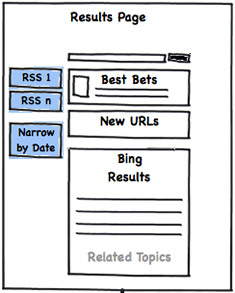
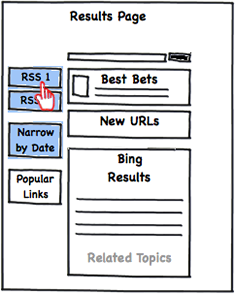
[Completes #19941063] Update Affiliate Center Text
- Move Search API under Account Settings and remove new button
- Remove new button from Popular Links
- Remove TM from URLs link on Best Bets: Text index page
- Show most recent Best Bets: Text and Best Bets: Graphics on best bets
  index page
- Update RSS images

Changed region(s): [[0.0, 0.0, 1.0, 1.0], [0.6255, 0.8601, 0.7447, 0.8908], [0.5064, 0.9829, 0.5362, 1.0]]

diff --git a/app/stylesheets/new_main.sass b/app/stylesheets/new_main.sass
@@ -1332,6 +1332,7 @@ h3.api-item
       padding: 0 0 0 1em
 
 .featured-collection-list, .boosted-content-list, .rss-feed-list
+  clear: both
   table
     border: 1px solid #BDBDBD
     table-layout: fixed
@@ -1595,6 +1596,9 @@ h3.api-item
       font:
         size: 20px
         weight: bold
+
+.best-bets
+  @include clearfix
 
 .analytics
   form

diff --git a/spec/controllers/affiliates/home_controller_spec.rb b/spec/controllers/affiliates/home_controller_spec.rb
@@ -711,13 +711,32 @@ describe Affiliates::HomeController do
     end
 
     context "when logged in as the affiliate manager" do
+      let(:affiliate) { affiliates(:basic_affiliate) }
+      let(:current_user) { users(:affiliate_manager) }
+      let(:boosted_contents) { mock('Boosted Contents') }
+      let(:recent_boosted_contents) { mock('recent Boosted Contents') }
+      let(:featured_collections) { mock('Featured Collections') }
+      let(:recent_featured_collections) { mock('recent Featured Collections') }
+
       before do
-        UserSession.create(users(:affiliate_manager))
+        UserSession.create(current_user)
+        User.should_receive(:find_by_id).and_return(current_user)
+
+        current_user.stub_chain(:affiliates, :find).and_return(affiliate)
+
+        affiliate.should_receive(:boosted_contents).and_return(boosted_contents)
+        boosted_contents.should_receive(:recent).and_return(recent_boosted_contents)
+
+        affiliate.should_receive(:featured_collections).and_return(featured_collections)
+        featured_collections.should_receive(:recent).and_return(recent_featured_collections)
+
         get :best_bets, :id => affiliates(:basic_affiliate).id
       end
 
       it { should assign_to :title }
+      it { should assign_to(:boosted_contents).with(recent_boosted_contents) }
+      it { should assign_to(:featured_collections).with(recent_featured_collections) }
+      it { should respond_with(:success) }
     end
   end
-
 end

diff --git a/spec/controllers/affiliates/featured_collections_controller_spec.rb b/spec/controllers/affiliates/featured_collections_controller_spec.rb
@@ -41,7 +41,7 @@ describe Affiliates::FeaturedCollectionsController do
 
         current_user.stub_chain(:affiliates, :find).and_return(affiliate)
         affiliate.should_receive(:featured_collections).and_return(featured_collections)
-        featured_collections.should_receive(:paginate).with(:all, :per_page => FeaturedCollection.per_page, :page => nil).and_return(featured_collections_with_paginate)
+        featured_collections.should_receive(:paginate).with(:all, :per_page => FeaturedCollection.per_page, :page => nil, :order => 'updated_at DESC, id DESC').and_return(featured_collections_with_paginate)
 
         get :index, :affiliate_id => affiliate.id
       end

diff --git a/spec/controllers/admin/featured_collections_controller_spec.rb b/spec/controllers/admin/featured_collections_controller_spec.rb
@@ -23,7 +23,7 @@ describe Admin::FeaturedCollectionsController do
       before do
         UserSession.create(current_user)
         FeaturedCollection.should_receive(:where).with(:affiliate_id => nil).and_return(featured_collections)
-        featured_collections.should_receive(:paginate).with(:per_page => FeaturedCollection.per_page, :page => nil).and_return(featured_collections_with_paginate)
+        featured_collections.should_receive(:paginate).with(:per_page => FeaturedCollection.per_page, :page => nil, :order => 'updated_at DESC, id DESC').and_return(featured_collections_with_paginate)
 
         get :index
       end

diff --git a/spec/models/featured_collection_spec.rb b/spec/models/featured_collection_spec.rb
@@ -35,6 +35,12 @@ describe FeaturedCollection do
   it { should have_many(:featured_collection_keywords).dependent(:destroy) }
   it { should have_many(:featured_collection_links).dependent(:destroy) }
 
+  describe ".recent" do
+    it "should include a scope called 'recent'" do
+      FeaturedCollection.scopes.include?(:recent).should be_true
+    end
+  end
+
   describe "title URL should have http(s):// prefix" do
     context "when the title URL does not start with http(s):// prefix" do
       title_url = 'searchblog.usa.gov/post/9866782725/did-you-mean-roes-or-rose'

diff --git a/app/models/featured_collection.rb b/app/models/featured_collection.rb
@@ -33,6 +33,7 @@ class FeaturedCollection < ActiveRecord::Base
   before_save :ensure_http_prefix_on_title_url
   before_post_process :check_image_validation
   before_update :clear_existing_image
+  scope :recent, { :order => 'updated_at DESC, id DESC', :limit => 5 }
 
   accepts_nested_attributes_for :featured_collection_keywords, :allow_destroy => true, :reject_if => proc { |a| a['value'].blank? }
   accepts_nested_attributes_for :featured_collection_links, :allow_destroy => true, :reject_if => proc { |a| a['title'].blank? and a['url'].blank? }

diff --git a/app/controllers/admin/featured_collections_controller.rb b/app/controllers/admin/featured_collections_controller.rb
@@ -4,7 +4,7 @@ class Admin::FeaturedCollectionsController < Admin::AffiliatesController
 
   def index
     @page_title = 'Search.USA.gov Featured Collections'
-    @featured_collections = FeaturedCollection.where(:affiliate_id => nil).paginate(:per_page => FeaturedCollection.per_page, :page => params[:page])
+    @featured_collections = FeaturedCollection.where(:affiliate_id => nil).paginate(:per_page => FeaturedCollection.per_page, :page => params[:page], :order => 'updated_at DESC, id DESC')
   end
 
   def new

diff --git a/app/controllers/affiliates/featured_collections_controller.rb b/app/controllers/affiliates/featured_collections_controller.rb
@@ -5,7 +5,8 @@ class Affiliates::FeaturedCollectionsController < Affiliates::AffiliatesControll
 
   def index
     @title = 'Best Bets: Graphics - '
-    @featured_collections = @affiliate.featured_collections.paginate(:all, :per_page => FeaturedCollection.per_page, :page => params[:page])
+    @featured_collections = @affiliate.featured_collections.paginate(:all, :per_page => FeaturedCollection.per_page, :page => params[:page], :order => 'updated_at DESC, id DESC')
+
   end
 
   def new

diff --git a/spec/models/boosted_content_spec.rb b/spec/models/boosted_content_spec.rb
@@ -94,6 +94,12 @@ describe BoostedContent do
     end
   end
 
+  describe ".recent" do
+    it "should include a scope called 'recent'" do
+      BoostedContent.scopes.include?(:recent).should be_true
+    end
+  end
+
   describe "#human_attribute_name" do
     specify { BoostedContent.human_attribute_name("publish_start_on").should == "Publish start date" }
     specify { BoostedContent.human_attribute_name("publish_end_on").should == "Publish end date" }

diff --git a/app/models/boosted_content.rb b/app/models/boosted_content.rb
@@ -17,6 +17,8 @@ class BoostedContent < ActiveRecord::Base
 
   before_save :ensure_http_prefix_on_url
 
+  scope :recent, { :order => 'updated_at DESC, id DESC', :limit => 5 }
+
   searchable :auto_index => false do
     text :title, :boost => 10.0
     text :description, :boost => 4.0

diff --git a/app/controllers/affiliates/home_controller.rb b/app/controllers/affiliates/home_controller.rb
@@ -201,6 +201,8 @@ class Affiliates::HomeController < Affiliates::AffiliatesController
 
   def best_bets
     @title = "Best Bets - "
+    @featured_collections = @affiliate.featured_collections.recent
+    @boosted_contents = @affiliate.boosted_contents.recent
   end
 
   protected
